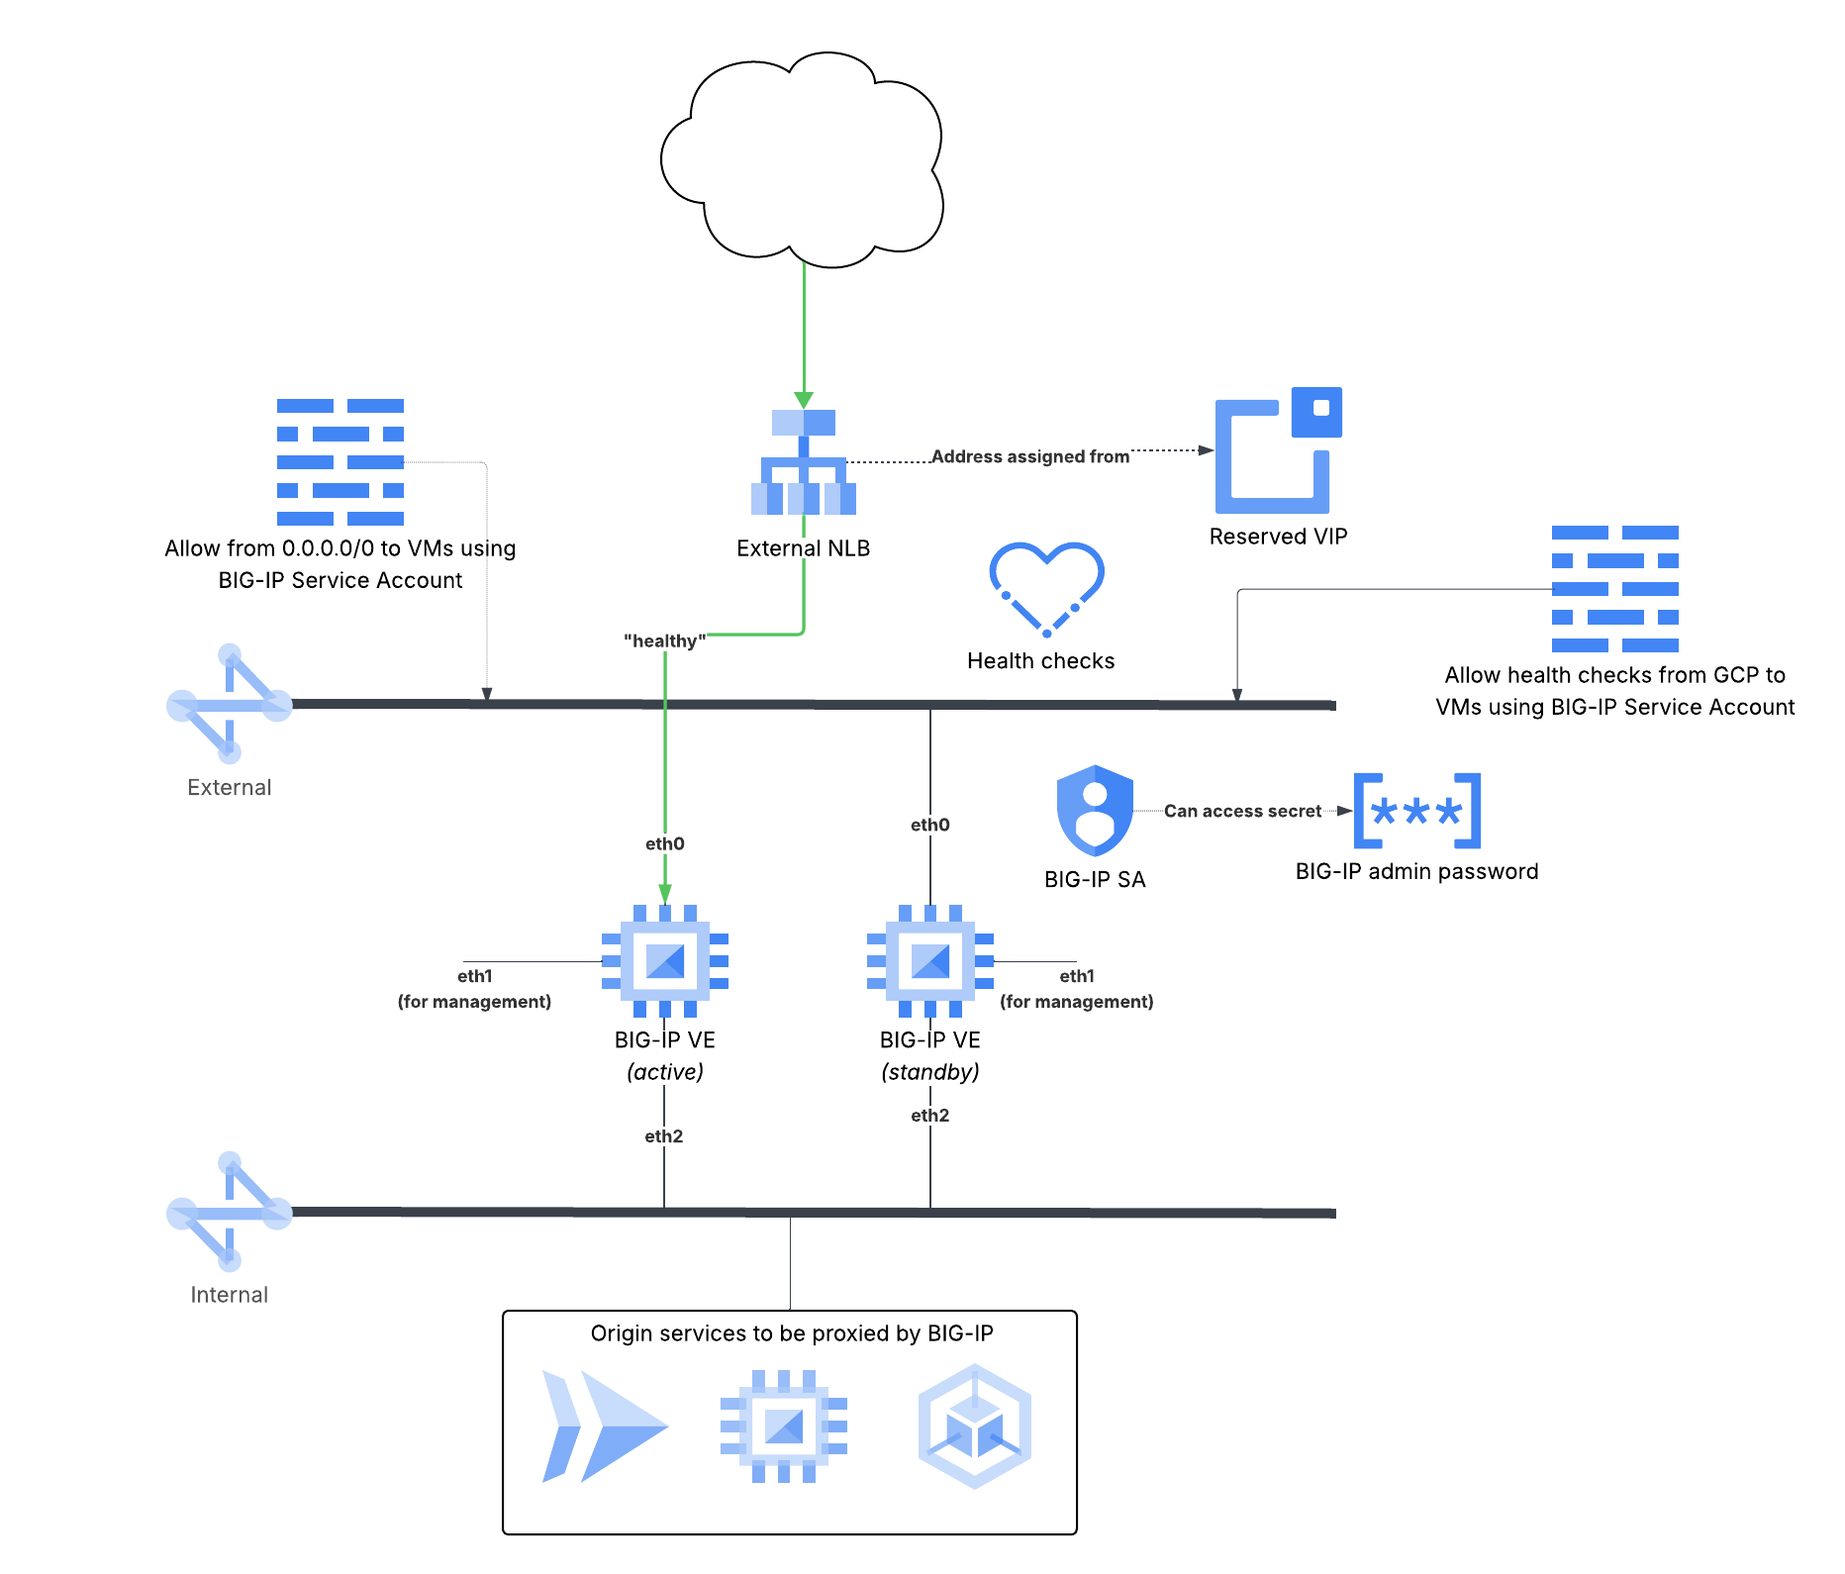
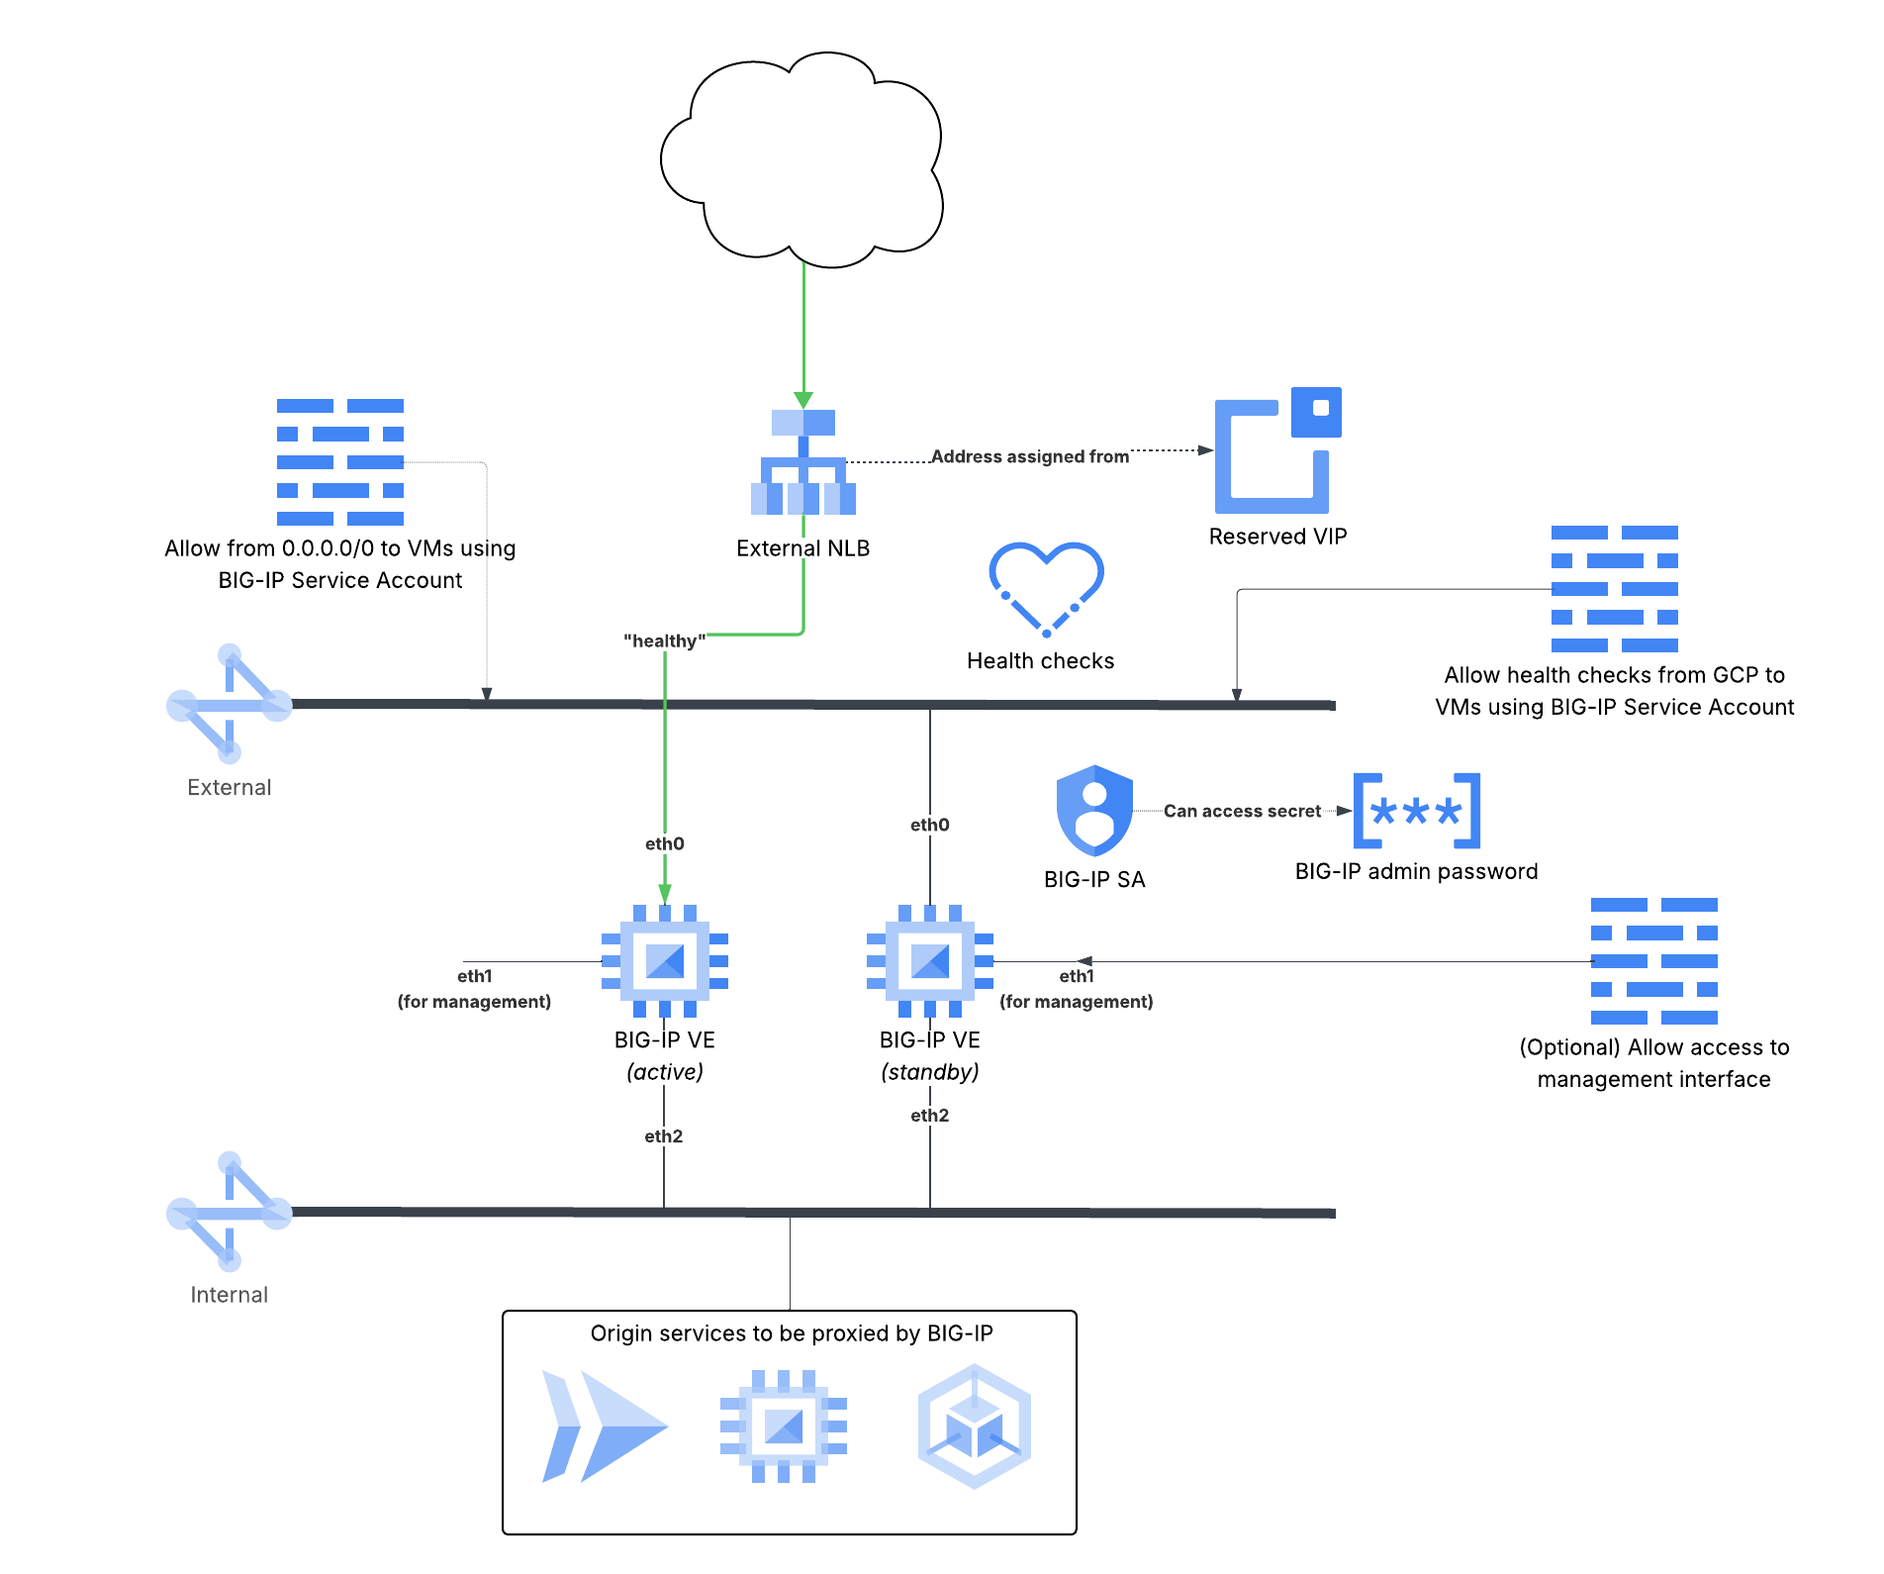
fix: Add management firewall rule to examples
The modules do not add GCP Firewall rules to allow management access via
SSH or web console; this fix adds an option to the examples.

docs: Add opinion about Firewall rules

The modules are opinionated and do not include data-plane or
control-plane firewall rules for operations. Make that explicit in
READMEs.

diff --git a/examples/stateless-nlb/README.md b/examples/stateless-nlb/README.md
@@ -48,6 +48,10 @@ disaggregation provided by a passthrough External Network Load Balancer. The cha
    allowlist_cidrs = [
       "a.b.c.d/xx",
    ]
+   # Optional, but required for example to allow access to management interfaces if a suitable rule does not already exist.
+   mgmt_allowlist_cidrs = [
+      "a.b.c.d/xx",
+   ]
    ```
 
 1. Provision the BIG-IP VE HA cluster
@@ -108,14 +112,15 @@ ownership.
 | Name | Source | Version |
 | ---- | ------ | ------- |
 | <a name="module_admin_password"></a> [admin\_password](#module\_admin\_password) | memes/secret-manager/google | 2.2.2 |
-| <a name="module_bigip_ha"></a> [bigip\_ha](#module\_bigip\_ha) | git::https://github.com/f5devcentral/terraform-google-f5-bigip-ha//modules/stateless | v0.2.2 |
-| <a name="module_template"></a> [template](#module\_template) | git::https://github.com/f5devcentral/terraform-google-f5-bigip-ha//modules/template | v0.2.2 |
+| <a name="module_bigip_ha"></a> [bigip\_ha](#module\_bigip\_ha) | git::https://github.com/f5devcentral/terraform-google-f5-bigip-ha//modules/stateless | v0.2.3 |
+| <a name="module_template"></a> [template](#module\_template) | git::https://github.com/f5devcentral/terraform-google-f5-bigip-ha//modules/template | v0.2.3 |
 
 ## Resources
 
 | Name | Type |
 | ---- | ---- |
 | [google_compute_address.vip](https://registry.terraform.io/providers/hashicorp/google/latest/docs/resources/compute_address) | resource |
+| [google_compute_firewall.mgmt](https://registry.terraform.io/providers/hashicorp/google/latest/docs/resources/compute_firewall) | resource |
 | [google_compute_firewall.public](https://registry.terraform.io/providers/hashicorp/google/latest/docs/resources/compute_firewall) | resource |
 | [google_compute_firewall.readyz](https://registry.terraform.io/providers/hashicorp/google/latest/docs/resources/compute_firewall) | resource |
 | [google_compute_forwarding_rule.vip](https://registry.terraform.io/providers/hashicorp/google/latest/docs/resources/compute_forwarding_rule) | resource |
@@ -125,6 +130,7 @@ ownership.
 | [google_service_account.sa](https://registry.terraform.io/providers/hashicorp/google/latest/docs/resources/service_account) | resource |
 | [random_string.admin_password](https://registry.terraform.io/providers/hashicorp/random/latest/docs/resources/string) | resource |
 | [google_compute_subnetwork.external](https://registry.terraform.io/providers/hashicorp/google/latest/docs/data-sources/compute_subnetwork) | data source |
+| [google_compute_subnetwork.management](https://registry.terraform.io/providers/hashicorp/google/latest/docs/data-sources/compute_subnetwork) | data source |
 
 ## Inputs
 
@@ -137,6 +143,7 @@ ownership.
 | <a name="input_allowlist_cidrs"></a> [allowlist\_cidrs](#input\_allowlist\_cidrs) | An optional list of CIDRs to be permitted access to BIG-IP instances via public VIP. Default is ["0.0.0.0/0"]. | `list(string)` | <pre>[<br/>  "0.0.0.0/0"<br/>]</pre> | no |
 | <a name="input_labels"></a> [labels](#input\_labels) | An optional map of string key:value pairs that will be applied to all resources created that accept labels, overriding<br/>the value present in the Instance Template. Default is null. | `map(string)` | `null` | no |
 | <a name="input_metadata"></a> [metadata](#input\_metadata) | An optional map of metadata strings to add to all BIG-IP instances. | `map(string)` | `null` | no |
+| <a name="input_mgmt_allowlist_cidrs"></a> [mgmt\_allowlist\_cidrs](#input\_mgmt\_allowlist\_cidrs) | An optional list of CIDRs to be permitted access to BIG-IP management interfaces. If the list is not null (default)<br/>and not empty, an example GCP Firewall rule will be created to allow access to management interfaces. | `list(string)` | `null` | no |
 
 ## Outputs
 

diff --git a/README.md b/README.md
@@ -24,7 +24,7 @@ to your scenario.
 > The [stateless](modules/stateless) sub-module can be used to create an Active-Active HA cluster of BIG-IP VE instances
 > that do not share configuration, where each instance is created and destroyed as part of a Google Cloud Managed
 > Instance Group. The [stateless](modules/stateless) module can be used for *manual-scaling* and *autoscaling*
-> scenarios.v
+> scenarios.
 
 ## What makes the module opinionated, and why might it be wrong for me?
 
@@ -32,6 +32,19 @@ You can roll your own HA deployment using F5's published [BIG-IP on Google Cloud
 deploying a set of VE instances that can be joined into a device sync group, but it has defaults for consistency with
 other CSPs that can make it harder to create a group during instantiation. This module makes the following choices to
 ease creation and management of a stateful HA cluster.
+
+1. Access control for data-plane traffic and control-plane
+
+   > OPINION: Firewall rules for general data-plane and control-plane access is the responsibility of the module
+   > consumer.
+
+   There are too many permutations for simple and hierarchical firewall rules in GCP; some organizations may prefer to
+   use Compute Engine tags, others will use source and target addresses, or service accounts. For this reason the
+   module will not create Firewall rules for data-plane traffic or operator access to control-plane,
+   *other than the rules required for BIG-IP ConfigSync and Failover group operations.*
+
+   The [examples](./examples/) include example firewall rules for public VIP and operator access which can be used
+   as starting points.
 
 1. Virtual machine naming
 
@@ -43,7 +56,7 @@ ease creation and management of a stateful HA cluster.
 
    The `instances` variable can be used to override this behavior and allow you to set the name of every instance explicitly.
 
-2. Subnetwork and IP addressing
+1. Subnetwork and IP addressing
 
    > OPINION: Subnetworks used and addressing flags should be consistent on all created instances, and the cluster should
    > be *regional* or *zonal*.
@@ -57,7 +70,7 @@ ease creation and management of a stateful HA cluster.
 
    The `instances` variable can be used to assign per-instance IP addressing.
 
-3. Metadata - provide cluster onboarding information as instance metadata values
+1. Metadata - provide cluster onboarding information as instance metadata values
 
    > OPINION: Enable declarative onboarding for arbitrary clusters with sync group members without relying on prior
    > knowledge of primary IP addresses.
@@ -74,7 +87,7 @@ ease creation and management of a stateful HA cluster.
    **NOTE:** The effective metadata value assigned to each BIG-IP VE is the result of merging the defined values above,
    the `metadata` input variable if not null or empty, and any per-instance metadata from `instances` input variable.
 
-4. Overriding per-instance defaults
+1. Overriding per-instance defaults
 
    > OPINION: Consumers of the module should be able to customize VM names, assign primary and secondary IP addresses,
    > and metadata to named instances.
@@ -87,7 +100,7 @@ ease creation and management of a stateful HA cluster.
    > not null or empty, a VM will be created for each key in `instances`, ignoring the value of `prefix` and
    `num_instances`.
 
-5. Module responsibility for onboarding stops at management interface configuration and launching of runtime-init
+1. Module responsibility for onboarding stops at management interface configuration and launching of runtime-init
 
    > OPINION: Consumers of the module must provide a runtime-init configuration to set passwords, enable data-plane, and
    > add applications, etc.

diff --git a/examples/stateful-nlb-byol/README.md b/examples/stateful-nlb-byol/README.md
@@ -57,6 +57,10 @@ are:
       "big-ip-reg-key-1",
       "big-ip-reg-key-2"
    ]
+   # Optional, but required for example to allow access to management interfaces if a suitable rule does not already exist.
+   mgmt_allowlist_cidrs = [
+      "a.b.c.d/xx",
+   ]
    ```
 
 1. Provision the BIG-IP VE HA cluster
@@ -113,13 +117,14 @@ ownership.
 | Name | Source | Version |
 | ---- | ------ | ------- |
 | <a name="module_admin_password"></a> [admin\_password](#module\_admin\_password) | memes/secret-manager/google | 2.2.2 |
-| <a name="module_bigip_ha"></a> [bigip\_ha](#module\_bigip\_ha) | git::https://github.com/f5devcentral/terraform-google-f5-bigip-ha | v0.2.2 |
+| <a name="module_bigip_ha"></a> [bigip\_ha](#module\_bigip\_ha) | git::https://github.com/f5devcentral/terraform-google-f5-bigip-ha | v0.2.3 |
 
 ## Resources
 
 | Name | Type |
 | ---- | ---- |
 | [google_compute_address.vip](https://registry.terraform.io/providers/hashicorp/google/latest/docs/resources/compute_address) | resource |
+| [google_compute_firewall.mgmt](https://registry.terraform.io/providers/hashicorp/google/latest/docs/resources/compute_firewall) | resource |
 | [google_compute_firewall.public](https://registry.terraform.io/providers/hashicorp/google/latest/docs/resources/compute_firewall) | resource |
 | [google_compute_firewall.readyz](https://registry.terraform.io/providers/hashicorp/google/latest/docs/resources/compute_firewall) | resource |
 | [google_compute_forwarding_rule.vip](https://registry.terraform.io/providers/hashicorp/google/latest/docs/resources/compute_forwarding_rule) | resource |
@@ -129,6 +134,7 @@ ownership.
 | [google_service_account.sa](https://registry.terraform.io/providers/hashicorp/google/latest/docs/resources/service_account) | resource |
 | [random_string.admin_password](https://registry.terraform.io/providers/hashicorp/random/latest/docs/resources/string) | resource |
 | [google_compute_subnetwork.external](https://registry.terraform.io/providers/hashicorp/google/latest/docs/data-sources/compute_subnetwork) | data source |
+| [google_compute_subnetwork.management](https://registry.terraform.io/providers/hashicorp/google/latest/docs/data-sources/compute_subnetwork) | data source |
 
 ## Inputs
 
@@ -142,6 +148,7 @@ ownership.
 | <a name="input_allowlist_cidrs"></a> [allowlist\_cidrs](#input\_allowlist\_cidrs) | An optional list of CIDRs to be permitted access to BIG-IP instances via public VIP. Default is ["0.0.0.0/0"]. | `list(string)` | <pre>[<br/>  "0.0.0.0/0"<br/>]</pre> | no |
 | <a name="input_labels"></a> [labels](#input\_labels) | An optional map of string key:value pairs that will be applied to all resources created that accept labels, overriding<br/>the value present in the Instance Template. Default is null. | `map(string)` | `null` | no |
 | <a name="input_metadata"></a> [metadata](#input\_metadata) | An optional map of metadata strings to add to all BIG-IP instances. | `map(string)` | `null` | no |
+| <a name="input_mgmt_allowlist_cidrs"></a> [mgmt\_allowlist\_cidrs](#input\_mgmt\_allowlist\_cidrs) | An optional list of CIDRs to be permitted access to BIG-IP management interfaces. If the list is not null (default)<br/>and not empty, an example GCP Firewall rule will be created to allow access to management interfaces. | `list(string)` | `null` | no |
 
 ## Outputs
 

diff --git a/examples/stateful-nlb/README.md b/examples/stateful-nlb/README.md
@@ -49,6 +49,10 @@ are:
    allowlist_cidrs = [
       "a.b.c.d/xx",
    ]
+   # Optional, but required for example to allow access to management interfaces if a suitable rule does not already exist.
+   mgmt_allowlist_cidrs = [
+      "a.b.c.d/xx",
+   ]
    ```
 
 1. Provision the BIG-IP VE HA cluster
@@ -105,13 +109,14 @@ ownership.
 | Name | Source | Version |
 | ---- | ------ | ------- |
 | <a name="module_admin_password"></a> [admin\_password](#module\_admin\_password) | memes/secret-manager/google | 2.2.2 |
-| <a name="module_bigip_ha"></a> [bigip\_ha](#module\_bigip\_ha) | git::https://github.com/f5devcentral/terraform-google-f5-bigip-ha | v0.2.2 |
+| <a name="module_bigip_ha"></a> [bigip\_ha](#module\_bigip\_ha) | git::https://github.com/f5devcentral/terraform-google-f5-bigip-ha | v0.2.3 |
 
 ## Resources
 
 | Name | Type |
 | ---- | ---- |
 | [google_compute_address.vip](https://registry.terraform.io/providers/hashicorp/google/latest/docs/resources/compute_address) | resource |
+| [google_compute_firewall.mgmt](https://registry.terraform.io/providers/hashicorp/google/latest/docs/resources/compute_firewall) | resource |
 | [google_compute_firewall.public](https://registry.terraform.io/providers/hashicorp/google/latest/docs/resources/compute_firewall) | resource |
 | [google_compute_firewall.readyz](https://registry.terraform.io/providers/hashicorp/google/latest/docs/resources/compute_firewall) | resource |
 | [google_compute_forwarding_rule.vip](https://registry.terraform.io/providers/hashicorp/google/latest/docs/resources/compute_forwarding_rule) | resource |
@@ -121,6 +126,7 @@ ownership.
 | [google_service_account.sa](https://registry.terraform.io/providers/hashicorp/google/latest/docs/resources/service_account) | resource |
 | [random_string.admin_password](https://registry.terraform.io/providers/hashicorp/random/latest/docs/resources/string) | resource |
 | [google_compute_subnetwork.external](https://registry.terraform.io/providers/hashicorp/google/latest/docs/data-sources/compute_subnetwork) | data source |
+| [google_compute_subnetwork.management](https://registry.terraform.io/providers/hashicorp/google/latest/docs/data-sources/compute_subnetwork) | data source |
 
 ## Inputs
 
@@ -133,6 +139,7 @@ ownership.
 | <a name="input_allowlist_cidrs"></a> [allowlist\_cidrs](#input\_allowlist\_cidrs) | An optional list of CIDRs to be permitted access to BIG-IP instances via public VIP. Default is ["0.0.0.0/0"]. | `list(string)` | <pre>[<br/>  "0.0.0.0/0"<br/>]</pre> | no |
 | <a name="input_labels"></a> [labels](#input\_labels) | An optional map of string key:value pairs that will be applied to all resources created that accept labels, overriding<br/>the value present in the Instance Template. Default is null. | `map(string)` | `null` | no |
 | <a name="input_metadata"></a> [metadata](#input\_metadata) | An optional map of metadata strings to add to all BIG-IP instances. | `map(string)` | `null` | no |
+| <a name="input_mgmt_allowlist_cidrs"></a> [mgmt\_allowlist\_cidrs](#input\_mgmt\_allowlist\_cidrs) | An optional list of CIDRs to be permitted access to BIG-IP management interfaces. If the list is not null (default)<br/>and not empty, an example GCP Firewall rule will be created to allow access to management interfaces. | `list(string)` | `null` | no |
 
 ## Outputs
 

diff --git a/modules/stateless/README.md b/modules/stateless/README.md
@@ -23,6 +23,19 @@ F5's published [BIG-IP on Google Cloud Terraform module][upstream] can be used t
 be joined into a device sync group when combined with additional effort/configuration, but it has no support for
 *stateless* clusters of BIG-IP VE instances.
 
+1. Access control for data-plane traffic and control-plane
+
+   > OPINION: Firewall rules for general data-plane and control-plane access is the responsibility of the module
+   > consumer.
+
+   There are too many permutations for simple and hierarchical firewall rules in GCP; some organizations may prefer to
+   use Compute Engine tags, others will use source and target addresses, or service accounts. For this reason the
+   module will not create Firewall rules for data-plane traffic or operator access to control-plane,
+   *other than the rule required for MIG health checks.*
+
+   The [examples](./examples/) include example firewall rules for public VIP and operator access which can be used
+   as starting points.
+
 1. Virtual machine lifecycle
 
    > OPINION: Google Cloud will be responsible for launching and terminating BIG-IP VE instances as needed.
@@ -35,7 +48,7 @@ be joined into a device sync group when combined with additional effort/configur
 
    > NOTE: Per-instance naming or lifecycle management is not supported for *stateless* clusters.
 
-2. Subnetwork and IP addressing
+1. Subnetwork and IP addressing
 
    > OPINION: Subnetworks used and addressing flags should be consistent on all created instances, and the cluster should
    > be *regional* or *zonal*.
@@ -49,7 +62,7 @@ be joined into a device sync group when combined with additional effort/configur
 
    > NOTE: Per-instance IP addressing is not supported for *stateless* clusters.
 
-3. Module responsibility for onboarding stops at runtime-init
+1. Module responsibility for onboarding stops at runtime-init
 
    > OPINION: Consumers of the module must provide a runtime-init configuration to set passwords, enable data-plane, and
    > add applications, etc.
